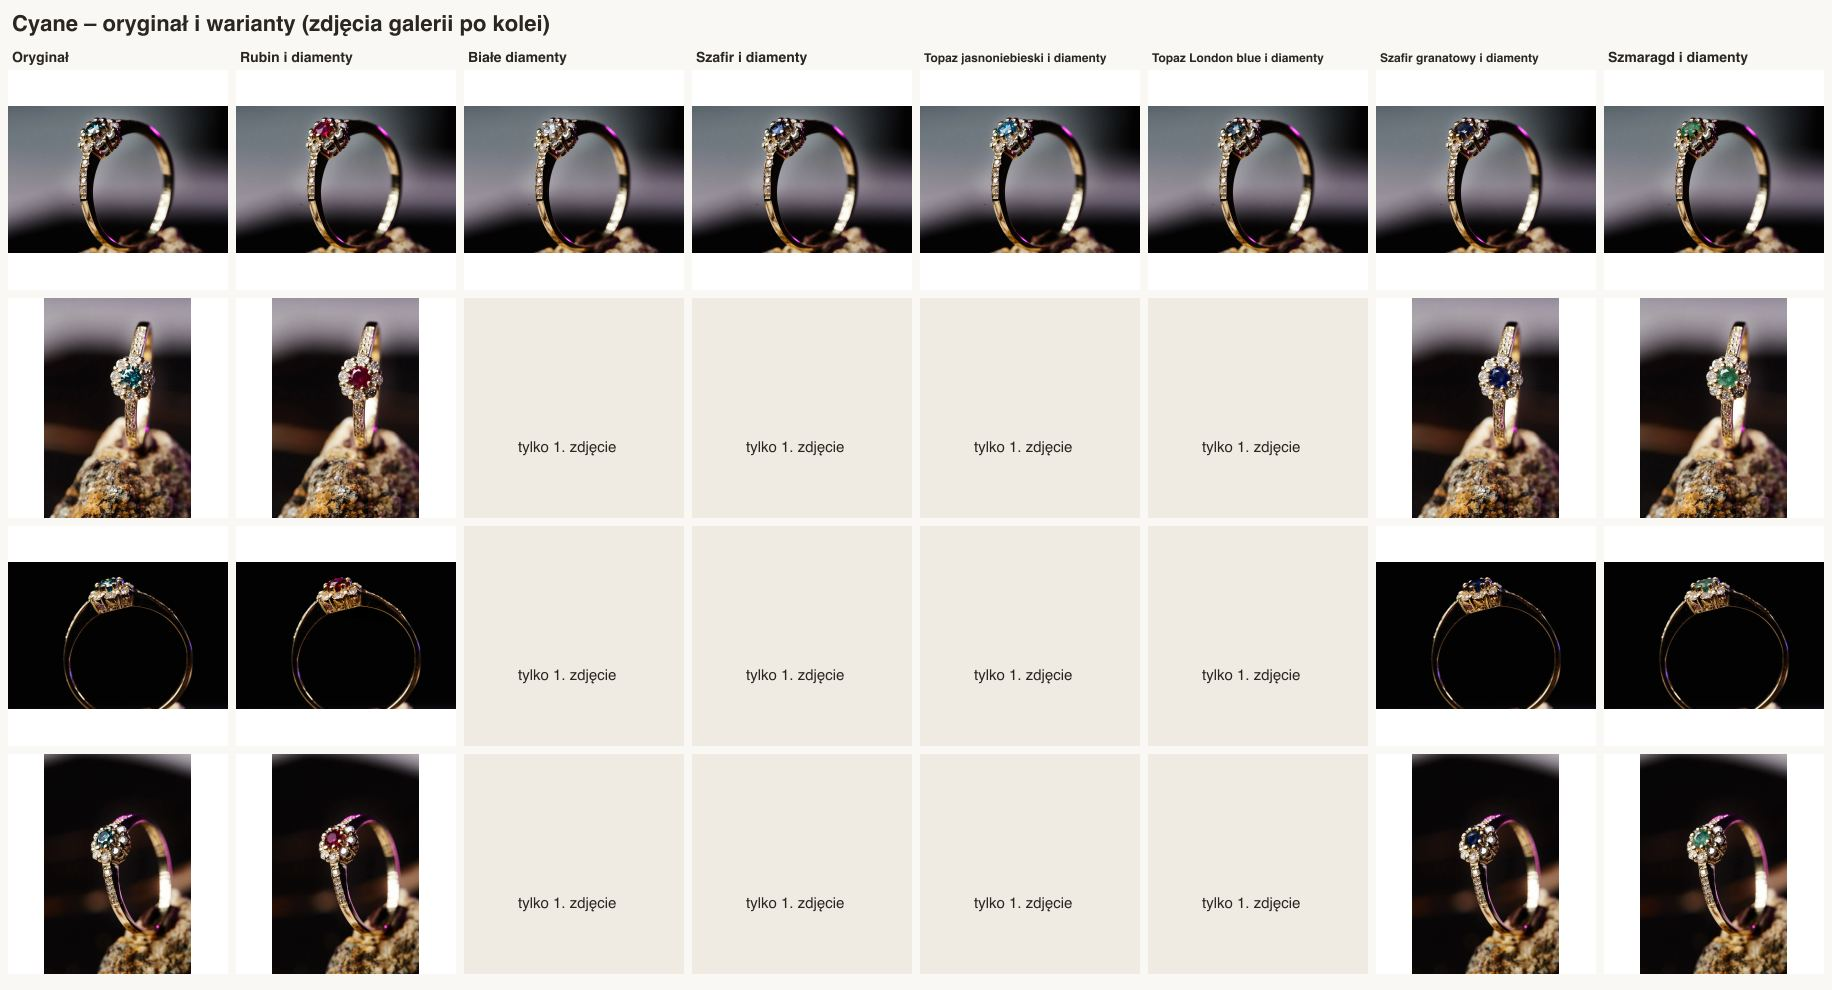
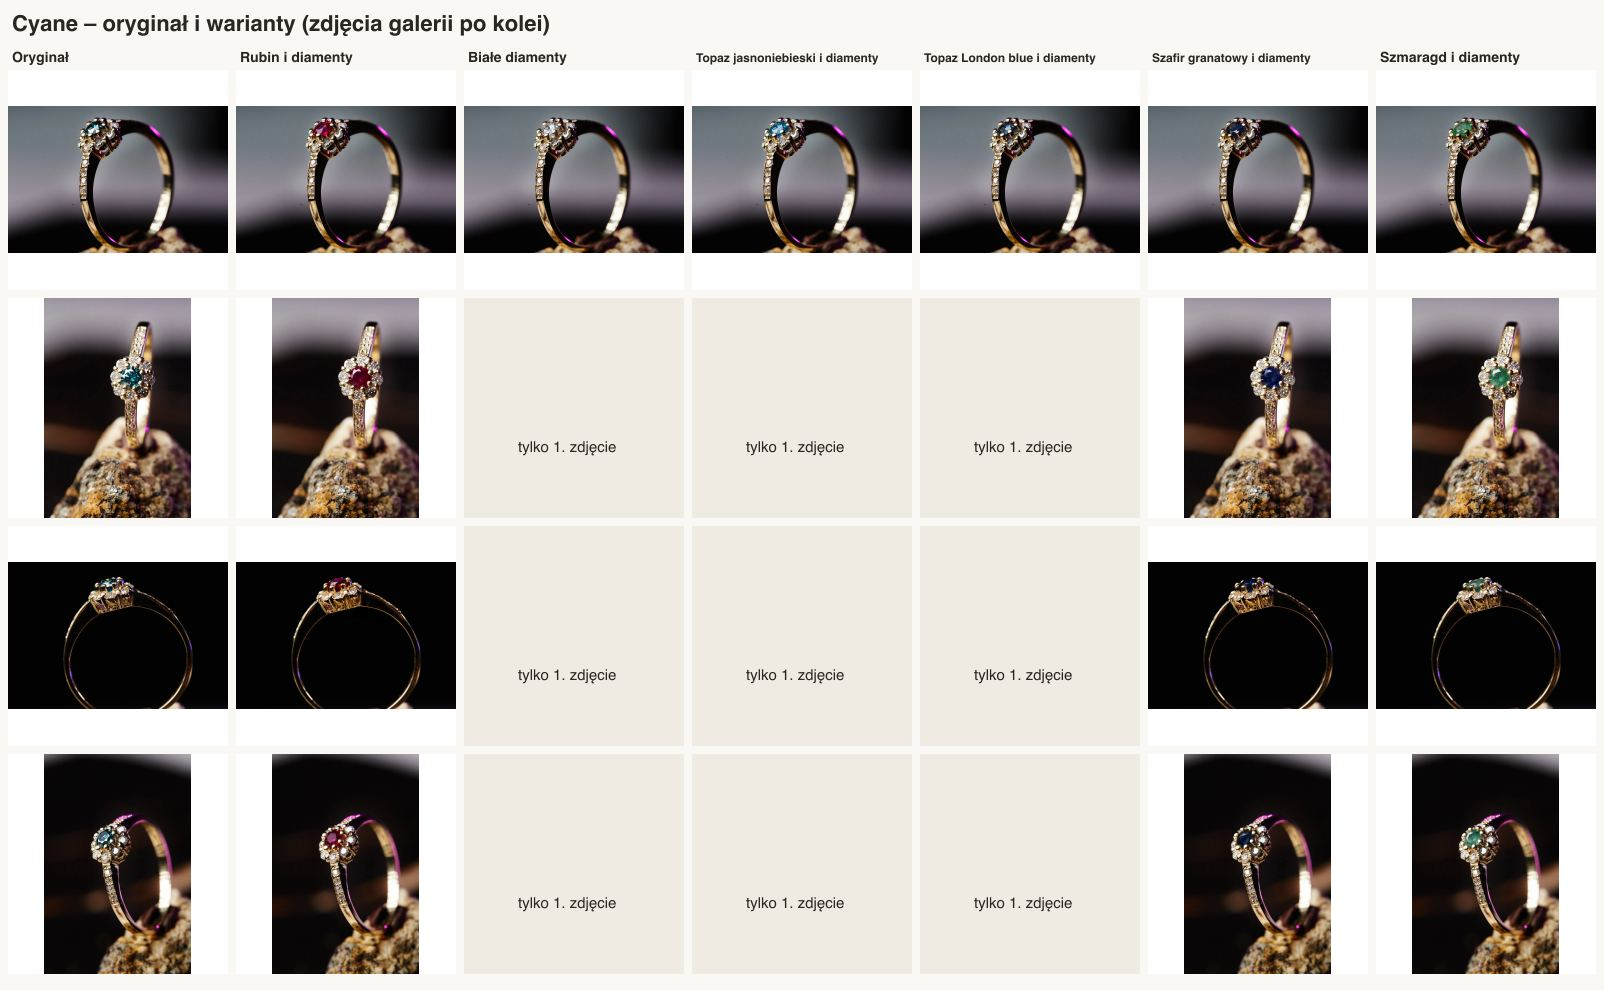
feat(Y): jasny szafir z W wycofany z Cyane i Daphne – zostaje szafir granatowy

diff --git a/cms/tests/int/wizualizacje-w.int.spec.ts b/cms/tests/int/wizualizacje-w.int.spec.ts
@@ -27,9 +27,9 @@ describe('wizualizacje W: konfiguracja i wpisy', () => {
   it('próbka: Cyane w pięciu kamieniach, fason z oktagonem w pełnej szóstce Kamili', () => {
     // Kamienie na 1. zdjęciu; Y dopisało szafir granatowy i spokojniejszy szmaragd (Michał 04.11).
     const first = (slug: string) => jobs(config, [slug]).filter((j) => j.photo === 1).map((j) => j.stone.key)
-    expect(first('cyane')).toEqual(['rubin', 'bialy-diament', 'szafir', 'topaz-jasnoniebieski', 'topaz-london-blue', 'szafir-granatowy', 'szmaragd-stonowany'])
+    expect(first('cyane')).toEqual(['rubin', 'bialy-diament', 'topaz-jasnoniebieski', 'topaz-london-blue', 'szafir-granatowy', 'szmaragd-stonowany'])
     expect(first('daphne').sort()).toEqual(
-      ['ametyst', 'bialy-diament', 'rubin', 'szafir', 'szafir-granatowy', 'szmaragd-stonowany', 'topaz-jasnoniebieski', 'topaz-london-blue'],
+      ['ametyst', 'bialy-diament', 'rubin', 'szafir-granatowy', 'szmaragd-stonowany', 'topaz-jasnoniebieski', 'topaz-london-blue'],
     )
   })
 
@@ -65,7 +65,6 @@ describe('wizualizacje W: konfiguracja i wpisy', () => {
     expect(cyane.variants.map((v) => v.stone)).toEqual([
       'Rubin i diamenty',
       'Białe diamenty',
-      'Szafir i diamenty',
       'Topaz jasnoniebieski i diamenty',
       'Topaz London blue i diamenty',
       'Szafir granatowy i diamenty',

diff --git a/cms/tests/int/warianty-y.int.spec.ts b/cms/tests/int/warianty-y.int.spec.ts
@@ -129,6 +129,12 @@ describe('warianty.json po Y: próbka Cyane, Daphne, Aion', () => {
     expect(checkImages(specs)).toEqual([])
   })
 
+  it('jasny szafir z W wycofany (Marcin 05.11): zostaje szafir granatowy', () => {
+    expect(specs.find((s) => s.slug === 'cyane')!.removeStones).toEqual(['Szafir i diamenty'])
+    expect(specs.find((s) => s.slug === 'daphne')!.removeStones).toEqual(['Szafir'])
+    expect(specs.find((s) => s.slug === 'daphne')!.variants.map((v) => v.stone)).not.toContain('Szafir')
+  })
+
   it('n-ty obraz wariantu ma proporcje n-tego zdjęcia karty; alt kończy „(wizualizacja)”', async () => {
     for (const slug of ['cyane', 'daphne']) {
       const photos = designPhotos(config.fasony.find((d) => d.slug === slug)!)
